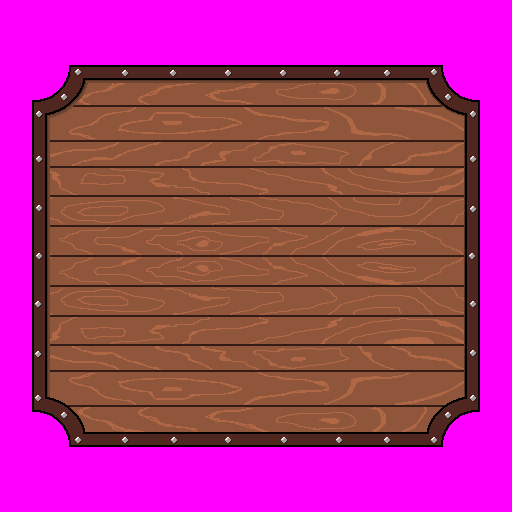
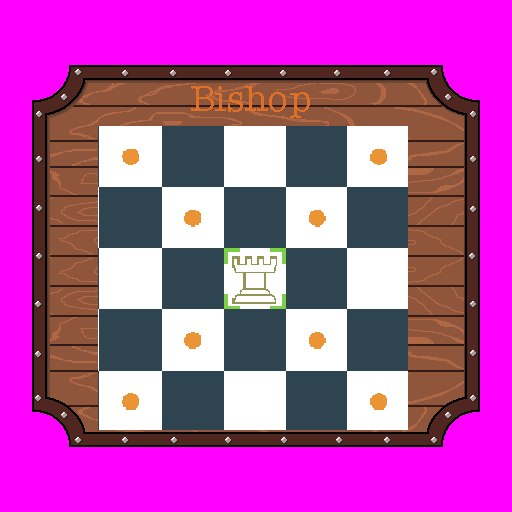
Added cards showing player movement

diff --git a/app/source/shop.cpp b/app/source/shop.cpp
@@ -91,7 +91,7 @@ Piece* Shop::CreateKing()
                              "Moves like a king in chess. Can move 1 tile in any direction.",
                              200,
                              10,
-                             "data/InfoboardWood_Bishop.png",
+                             "data/InfoboardWood_King.png",
                              1);
 
     for (int i = 1; i <= 1; i++)
@@ -118,7 +118,7 @@ Piece* Shop::CreateQueen()
                              "Moves like a queen in chess.",
                              150,
                              5,
-                             "data/InfoboardWood_Bishop.png",
+                             "data/InfoboardWood_Queen.png",
                              10);
 
     for (int i = 1; i <= 10; i++)
@@ -173,7 +173,7 @@ Piece* Shop::CreatePrince()
                              "Can move 4 tiles forwards/back/left/right, then attack left/right diagonal. Can jump over fences.",
                              90,
                              6,
-                             "data/InfoboardWood_Bishop.png",
+                             "data/InfoboardWood_Prince.png",
                              4,
                              true);
 
@@ -197,7 +197,7 @@ Piece* Shop::CreatePrincess()
                              "Moves like a queen in chess. Can move 3 tiles in any direction. Transformer. Can acquire the qualities of adjacent friendly pieces at will.",
                              120,
                              8,
-                             "data/InfoboardWood_Bishop.png",
+                             "data/InfoboardWood_Princess.png",
                              3,
                              true);
 
@@ -227,7 +227,7 @@ Piece* Shop::CreateShieldMan()
                              "Can move 1 tile forward or 1 tile sideways. This piece cannot capture other pieces. The tiles in front will become heavy.",
                              50,
                              1,
-                             "data/InfoboardWood_Bishop.png",
+                             "data/InfoboardWood_ShieldMan.png",
                              1);
 
     // TODO: Special weight quality and capture quality
@@ -254,7 +254,7 @@ Piece* Shop::CreateStallion()
                              "Moves like a knight in chess. Either two steps forward and one to the side, or one step forward and two to the side. Can jump over fences.",
                              60,
                              1,
-                             "data/InfoboardWood_Bishop.png",
+                             "data/InfoboardWood_Stallion.png",
                              3,
                              true);
 
@@ -278,7 +278,7 @@ Piece* Shop::CreateJester()
                              "Moves diagonally 2 spaces in any direction.",
                              75,
                              3,
-                             "data/InfoboardWood_Bishop.png",
+                             "data/InfoboardWood_Jester.png",
                              2,
                              true);
 
@@ -302,7 +302,7 @@ Piece* Shop::CreateFence()
                              "Can be placed on the edge of tiles, is 3 spaces long. Blocks non-jumping pieces from passing. Can only be placed horizontally.",
                              40,
                              0,
-                             "data/InfoboardWood_Bishop.png",
+                             "data/InfoboardWood_Fence.png",
                              0);
 
     piece->invinsible = true;
@@ -318,7 +318,7 @@ Piece* Shop::CreateKnight()
                              "Moves like a rook, but only 4 tiles. Can attack diagonally forward left/right if oponent",
                              50,
                              2,
-                             "data/InfoboardWood_Bishop.png",
+                             "data/InfoboardWood_Knight.png",
                              5);
 
     for (int i = 1; i <= 4; i++)
@@ -353,7 +353,7 @@ Piece* Shop::CreatePeasant()
                              "Only move forward by 1 space, can capture if there is an opponent piece on that space.",
                              20,
                              0,
-                             "data/InfoboardWood_Bishop.png",
+                             "data/InfoboardWood_Peasant.png",
                              1);
 
     // TODO: Add promotion when reaching other side of board
@@ -375,10 +375,10 @@ Piece* Shop::CreateBishop()
 
     for (int i = 1; i <= 10; i++)
     {
-        piece->movePattern.Add(glm::vec2(0,i));
-        piece->movePattern.Add(glm::vec2(0,-i));
-        piece->movePattern.Add(glm::vec2(i,0));
-        piece->movePattern.Add(glm::vec2(-i,0));
+        piece->movePattern.Add(glm::vec2(i,i));
+        piece->movePattern.Add(glm::vec2(-i,-i));
+        piece->movePattern.Add(glm::vec2(i,-i));
+        piece->movePattern.Add(glm::vec2(-i,i));
     }
 
     return piece;
@@ -392,7 +392,7 @@ Piece* Shop::CreateHydra()
                              "Can only move 1 space at the time. Can attack up to 3 adjacent enemies.",
                              180,
                              1,
-                             "data/InfoboardWood_Bishop.png",
+                             "data/InfoboardWood_Hydra.png",
                              1,
                              false,
                              false,
@@ -425,7 +425,7 @@ Piece* Shop::CreateRogue()
                              "Can move 2 tiles in any direction. If the rogue eliminates an enemy piece, the rogue moves back to its original position.",
                              200,
                              2,
-                             "data/InfoboardWood_Bishop.png",
+                             "data/InfoboardWood_Rogue.png",
                              2,
                              false,
                              true);
@@ -457,7 +457,7 @@ Piece* Shop::CreateDeserter()
                              "Haunts the piece with the highest nobility. Moves up to 4 adjacent tiles.",
                              50,
                              0,
-                             "data/InfoboardWood_Bishop.png",
+                             "data/InfoboardWood_Deserter.png",
                              4);
 
     for (int i = 1; i <= 4; i++)
@@ -484,7 +484,7 @@ Piece* Shop::CreateCannon()
                              "Can move 1 space in any direction. Can shoot a cannon ball straight forwards. The cannon ball can only hit the 4th and 5th space infront of the cannon. After use, the cannon is removed from the board.",
                              350,
                              1,
-                             "data/InfoboardWood_Bishop.png",
+                             "data/InfoboardWood_Cannon.png",
                              1,
                              true,
                              true);
@@ -504,9 +504,9 @@ Piece* Shop::CreateCannon()
         piece->movePattern.Add(glm::vec2(-i,-i));
     }
 
-    // Cannon can shoot pieces 3 tiles infront of it
+    // Cannon can shoot pieces 3 tiles in front of it
 
-    for(int i = 3; i<10; ++i)
+    for (int i = 3; i < 10; ++i)
     {
         piece->captureOnlyMovePattern.Add(glm::vec2(0,i));
     }
